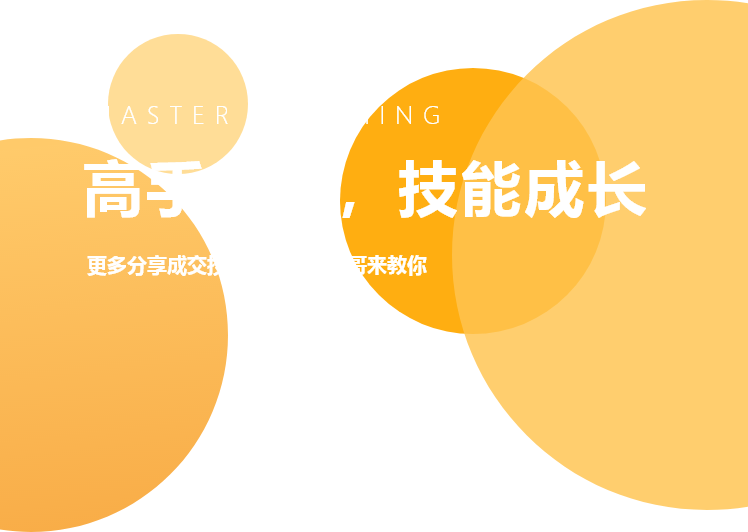
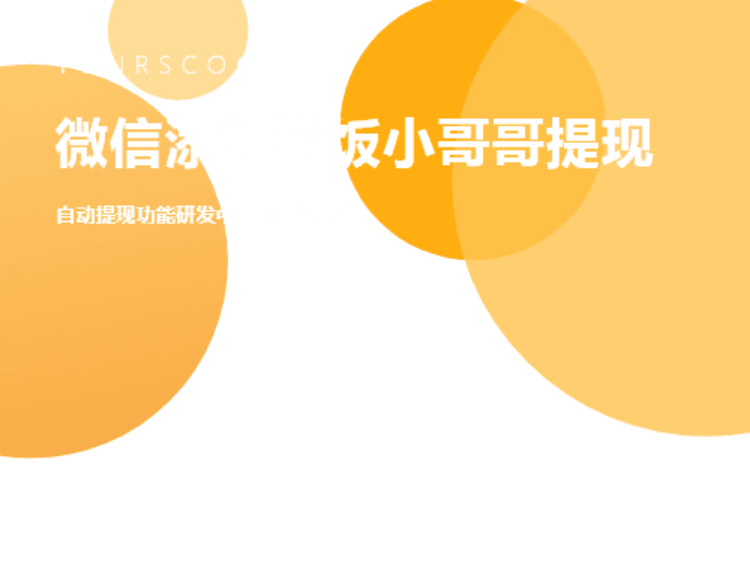
提现修改

diff --git a/pages/personal/sale_union/my_profit.vue b/pages/personal/sale_union/my_profit.vue
@@ -12,7 +12,7 @@
         <!--</div>-->
         <div class="fortune-center">
           <p class="price" v-if="JSON.stringify(incomeReport) !== '{}'">{{incomeReport.currency}}{{incomeReport.income.total_income}}</p>
-          <!--<nuxt-link to="/personal/transfercore" tag="p">我的收益，去提现 <van-icon name="arrow" /></nuxt-link>-->
+          <nuxt-link to="/personal/sale_union/study_union" tag="p">我的余额，去提现 <van-icon name="arrow" /></nuxt-link>
         </div>
         <van-row class="rich-info">
           <van-col span="8">
@@ -181,7 +181,7 @@ export default {
     .fortune-center{
       margin-bottom: 40px;
       text-align: center;
-      padding-top: 50px;
+      padding-top: 15px;
       .price{
         height: 66px;
         line-height: 66px;

diff --git a/pages/personal/sale_union/study_union.vue b/pages/personal/sale_union/study_union.vue
@@ -1,6 +1,6 @@
 <template>
   <div class="page-container">
-    <header-bar title="稀饭小哥哥"></header-bar>
+    <header-bar title="提现"></header-bar>
     <div style="padding-top: 46px;" class="bg-gradient">
       <div class="top-slg-b">
         <div class="share-code">
